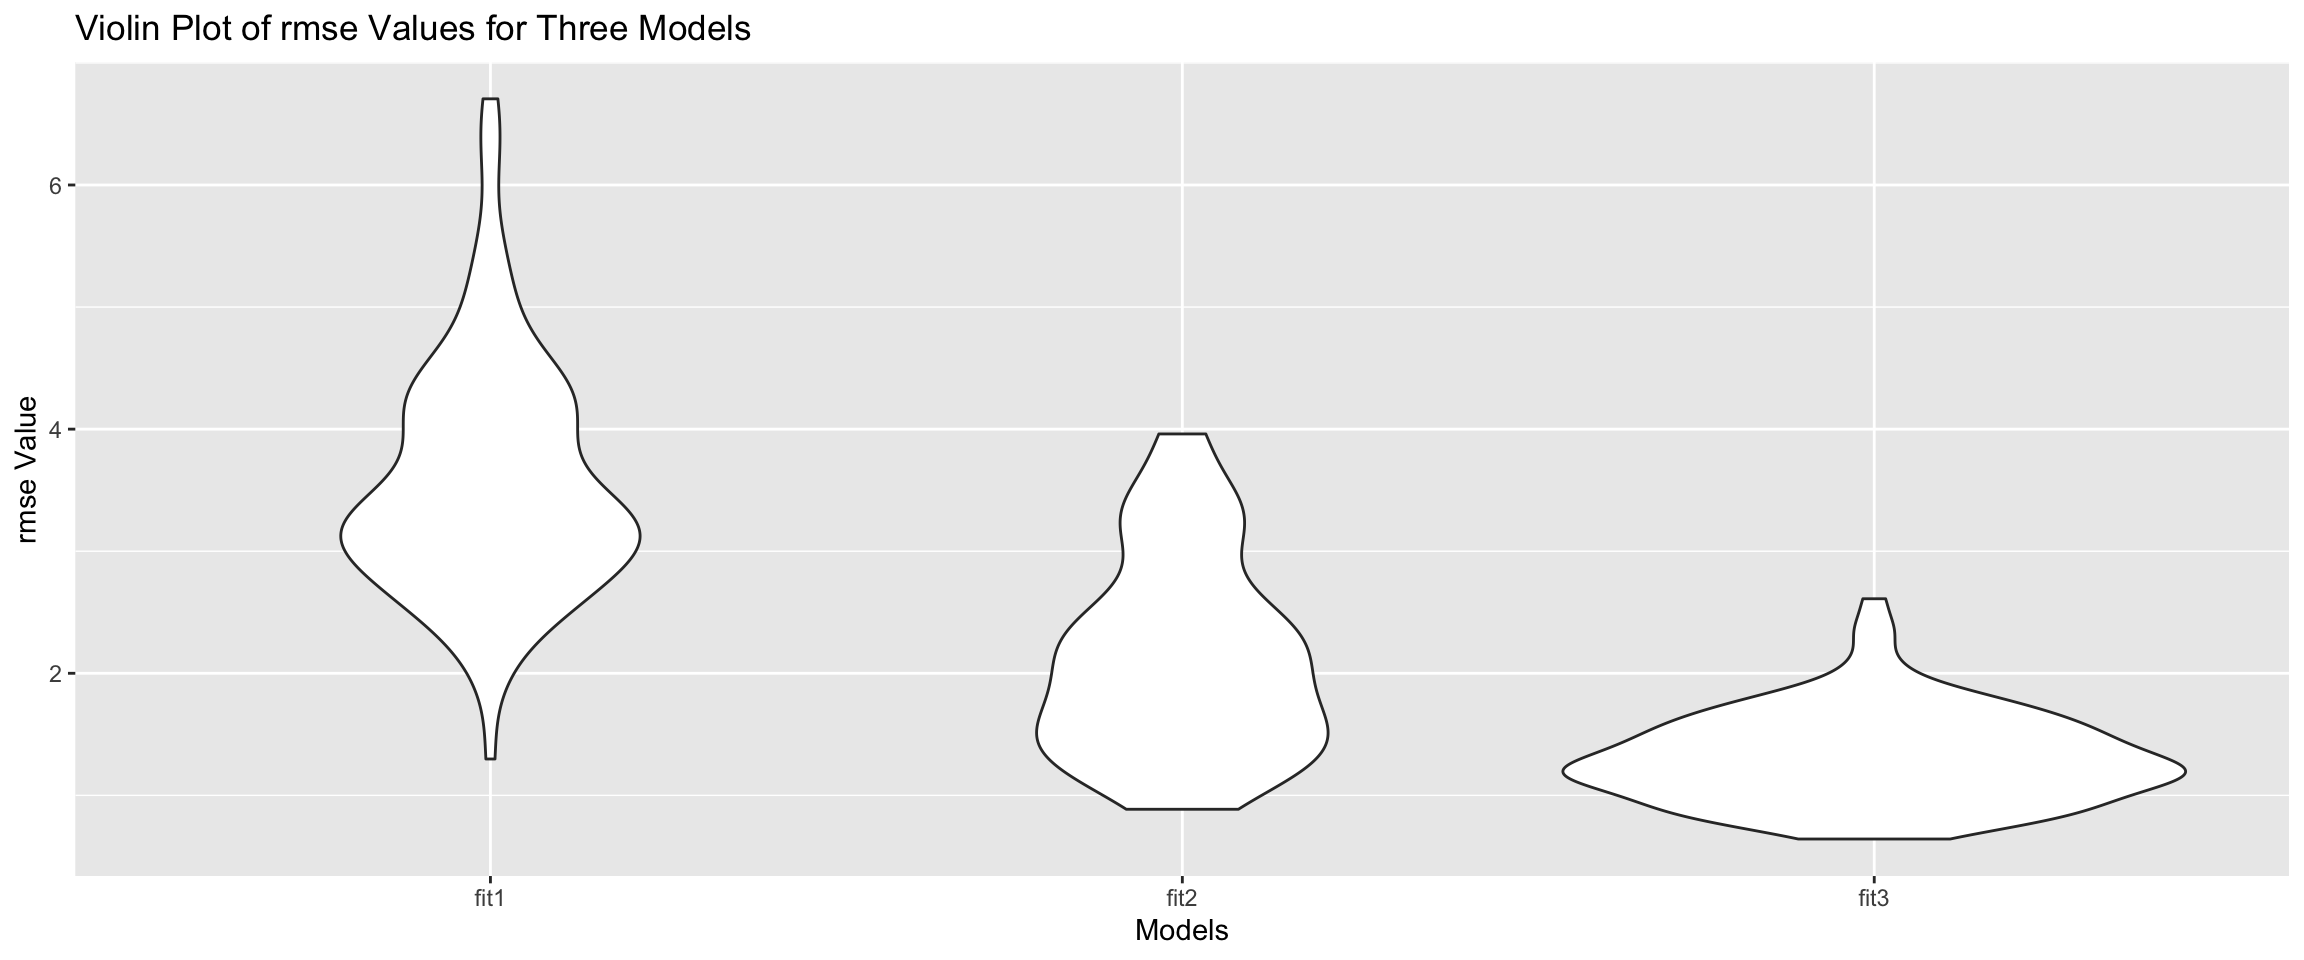
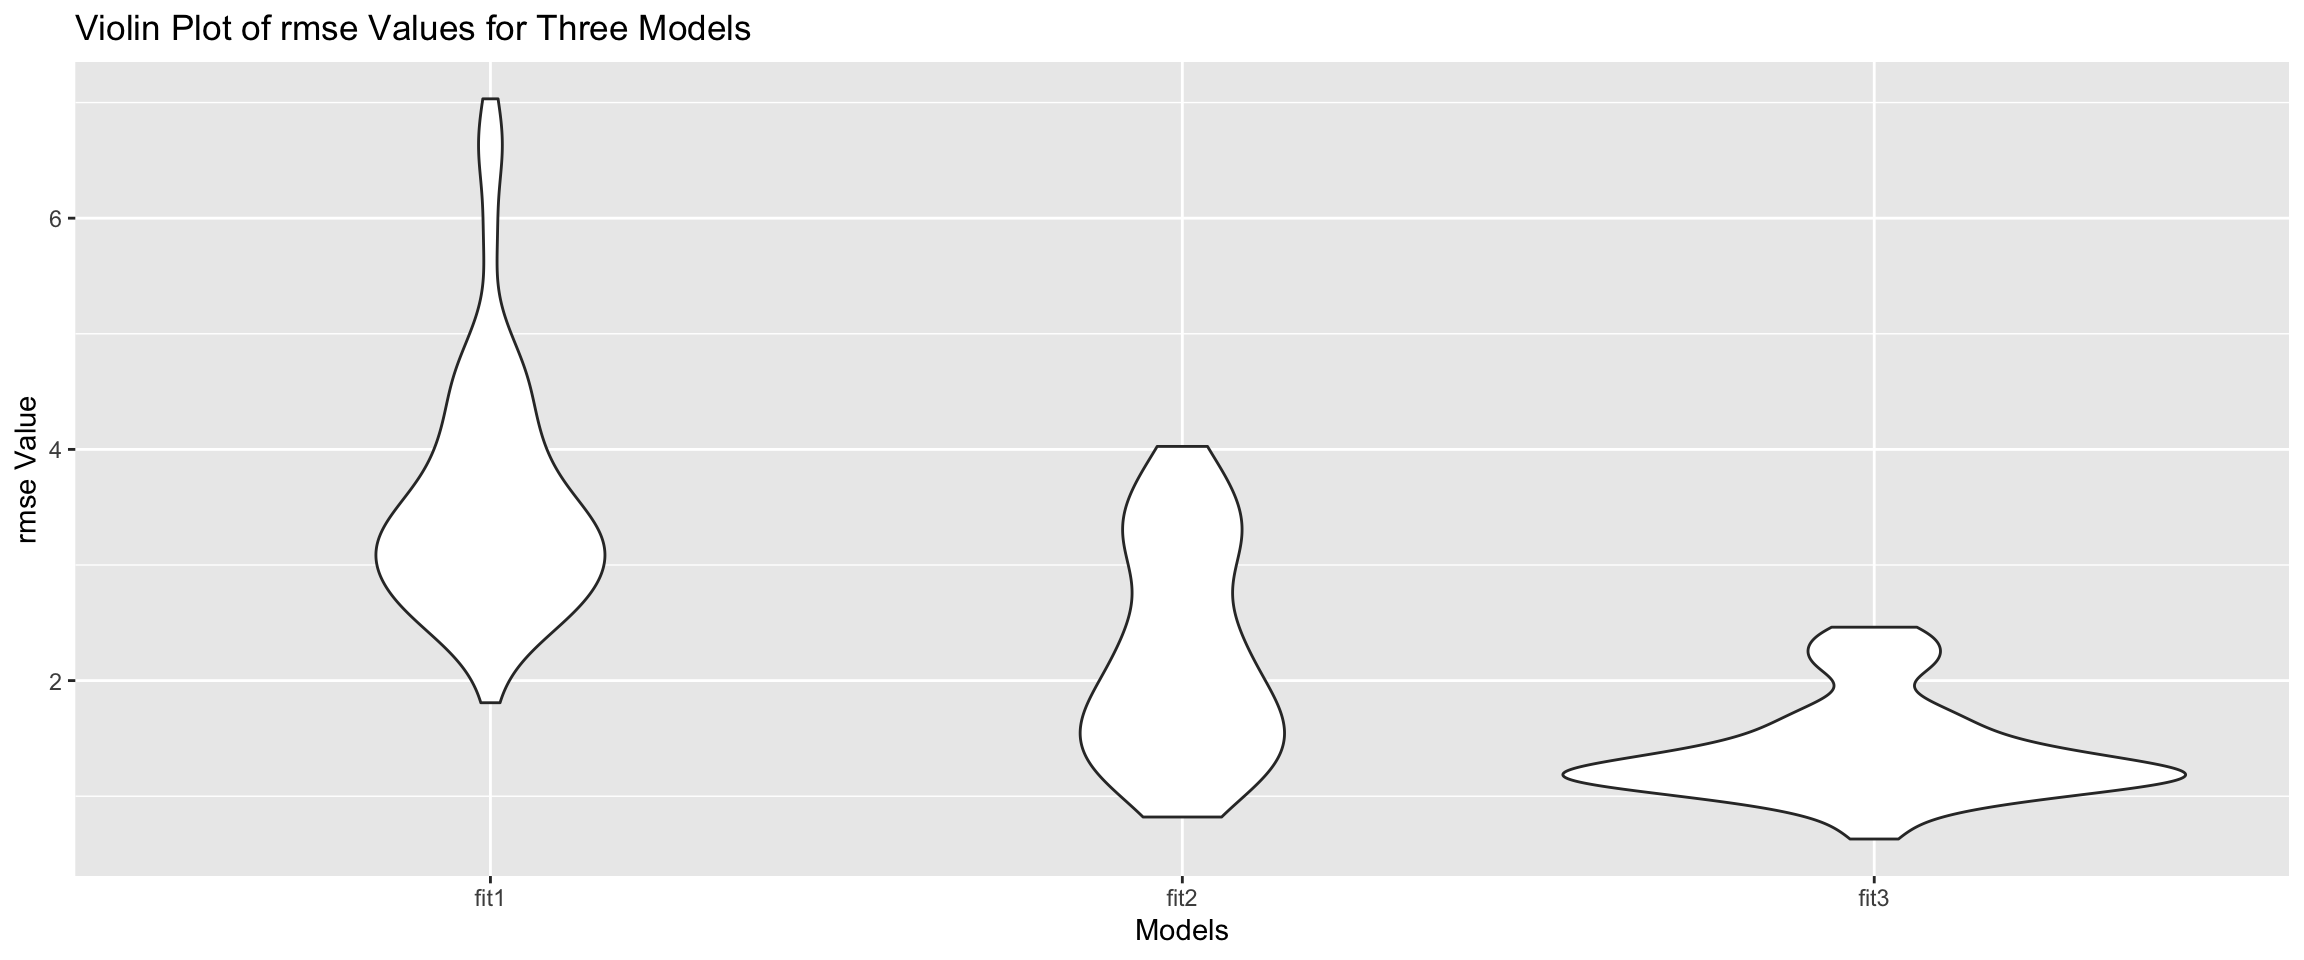
page cleaning

diff --git a/modelbuilding.html b/modelbuilding.html
@@ -316,8 +316,61 @@ $(document).ready(function () {
 </div>
 <div id="potential-predictors" class="section level1">
 <h1>Potential predictors</h1>
-<p><br> #### VARIABLES AND DEFINITIONS country: Individual country (represents national soccer team) part: Number of times each country has participated in the World Cup (all time) pld: Number of games played in the World Cup (since 1990) w: Number of soccer games a country has won in the World Cup (since 1990) d: Number of soccer games a country has drawn in the World Cup (since 1990) l: Number of soccer games a country has lost in the World Cup (since 1990) gf: Number of goals a country has scored against opponents in the World Cup (since 1990) ga: Number of goals scored against a country in the World Cup (since 1990) gd: Goal difference of country (goals scored by country minus goals scored against country) pts: Number of points accumulated by country in the World Cup (since 1990) rank: Country Official FIFA ranking (2022 Rankings) player: Name of top record goal scorer goals: Number of goals scored by top record goal scorer land_area_km: Total area of the land-based portions of a country’s geography (measured in square kilometers, km²) confederation: Country FIFA confederation</p>
-<p><br> # To check for colinearity, we use correlation plot to explore the relationship between each pair of numereic predictors.</p>
+<p><br></p>
+<div id="variables-and-definitions" class="section level4">
+<h4>VARIABLES AND DEFINITIONS</h4>
+<div id="country-individual-country-represents-national-soccer-team" class="section level5">
+<h5><code>country</code>: Individual country (represents national soccer team)</h5>
+</div>
+<div id="part-number-of-times-each-country-has-participated-in-the-world-cup-all-time" class="section level5">
+<h5><code>part</code>: Number of times each country has participated in the World Cup (all time)</h5>
+</div>
+<div id="pld-number-of-games-played-in-the-world-cup-since-1990" class="section level5">
+<h5><code>pld</code>: Number of games played in the World Cup (since 1990)</h5>
+</div>
+<div id="w-number-of-soccer-games-a-country-has-won-in-the-world-cup-since-1990" class="section level5">
+<h5><code>w</code>: Number of soccer games a country has won in the World Cup (since 1990)</h5>
+</div>
+<div id="d-number-of-soccer-games-a-country-has-drawn-in-the-world-cup-since-1990" class="section level5">
+<h5><code>d</code>: Number of soccer games a country has drawn in the World Cup (since 1990)</h5>
+</div>
+<div id="l-number-of-soccer-games-a-country-has-lost-in-the-world-cup-since-1990" class="section level5">
+<h5><code>l</code>: Number of soccer games a country has lost in the World Cup (since 1990)</h5>
+</div>
+<div id="gf-number-of-goals-a-country-has-scored-against-opponents-in-the-world-cup-since-1990" class="section level5">
+<h5><code>gf</code>: Number of goals a country has scored against opponents in the World Cup (since 1990)</h5>
+</div>
+<div id="ga-number-of-goals-scored-against-a-country-in-the-world-cup-since-1990" class="section level5">
+<h5><code>ga</code>: Number of goals scored against a country in the World Cup (since 1990)</h5>
+</div>
+<div id="gd-goal-difference-of-country-goals-scored-by-country-minus-goals-scored-against-country" class="section level5">
+<h5><code>gd</code>: Goal difference of country (goals scored by country minus goals scored against country)</h5>
+</div>
+<div id="pts-number-of-points-accumulated-by-country-in-the-world-cup-since-1990" class="section level5">
+<h5><code>pts</code>: Number of points accumulated by country in the World Cup (since 1990)</h5>
+</div>
+<div id="rank-country-official-fifa-ranking-2022-rankings" class="section level5">
+<h5><code>rank</code>: Country Official FIFA ranking (2022 Rankings)</h5>
+</div>
+<div id="player-name-of-top-record-goal-scorer" class="section level5">
+<h5><code>player</code>: Name of top record goal scorer</h5>
+</div>
+<div id="goals-number-of-goals-scored-by-top-record-goal-scorer" class="section level5">
+<h5><code>goals</code>: Number of goals scored by top record goal scorer</h5>
+</div>
+<div id="land_area_km-total-area-of-the-land-based-portions-of-a-countrys-geography-measured-in-square-kilometers-km²" class="section level5">
+<h5><code>land_area_km</code>: Total area of the land-based portions of a country’s geography (measured in square kilometers, km²)</h5>
+</div>
+<div id="confederation-country-fifa-confederation" class="section level5">
+<h5><code>confederation</code>: Country FIFA confederation</h5>
+<p><br></p>
+</div>
+</div>
+</div>
+<div id="correlation-plot" class="section level1">
+<h1>Correlation Plot</h1>
+<div id="to-check-for-colinearity-we-use-correlation-plot-to-explore-the-relationship-between-each-pair-of-numereic-predictors.-to-only-include-the-numeric-variables-we-use-select-function-to-exclude-variables-player-country-and-gd." class="section level3">
+<h3>To check for colinearity, we use correlation plot to explore the relationship between each pair of numereic predictors. To only include the numeric variables, we use select function to exclude variables, player, country, and gd.</h3>
 <pre class="r"><code>data &lt;- read.csv(&quot;./data/12_4_dataset.csv&quot;) %&gt;% 
   na.omit() %&gt;% 
   select(-country)
@@ -326,6 +379,7 @@ num = data[2:14] %&gt;%
 corrplot(cor(num),  diag = FALSE)</code></pre>
 <p><img src="modelbuilding_files/figure-html/unnamed-chunk-1-1.png" width="1152" /></p>
 <p><br></p>
+</div>
 </div>
 <div id="cross-validation" class="section level1">
 <h1>Cross-validation</h1>
@@ -366,7 +420,7 @@ cv_df %&gt;%
   xlab(&quot;Models&quot;) +
   labs(title = &quot;Violin Plot of rmse Values for Three Models&quot;)</code></pre>
 <p><img src="modelbuilding_files/figure-html/unnamed-chunk-2-1.png" width="1152" /></p>
-<p>From the violin plot, we can see that model 3 has the lowest rmse.</p>
+<p>These three models are the results from forward selection, but gf and ga are two variables on the border line. Therefore, we use cross validation to check is these two variables need to be included in the model and which model is the best. From the violin plot, we can see that model 3 has the lowest rmse, which is the model chosen by forward selection. The first model has only three variables, pld, d, and rank. The second model has four variables, pld, d, rank, and gf. The third model has five variables, pld, d, rank, gf, and ga.</p>
 <p><br> # Model <br> Our final model was chosen by forward selection, where we start with only the intercept and add one predictor as a time. The criteria we chose is p-value, which means we will select predictors to include based on p-values, until no more predictors having p-value less than 0.05 can be added to the model.</p>
 <pre class="r"><code>model1=lm(w~pld + d + rank , data = num)
 model2=lm(w~pld + d + rank + gf, data = num)
